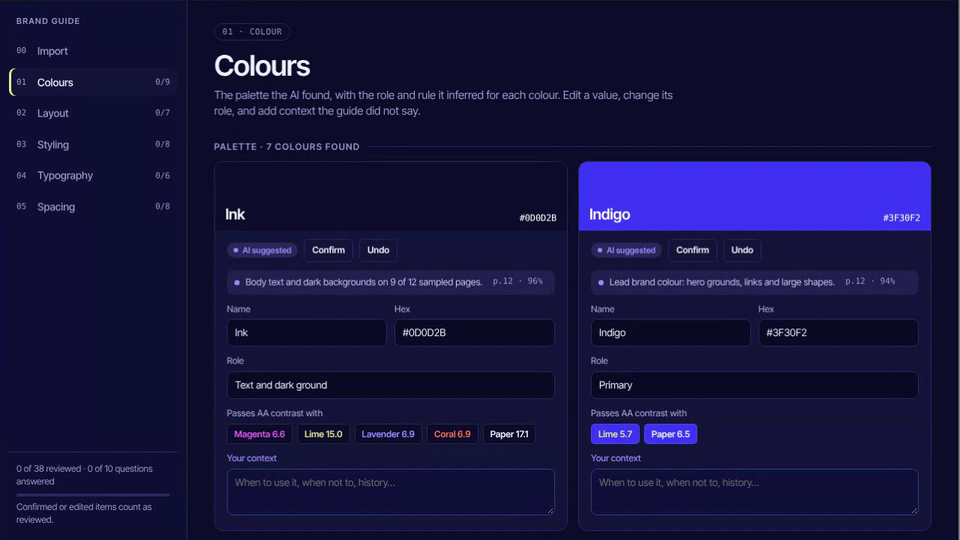
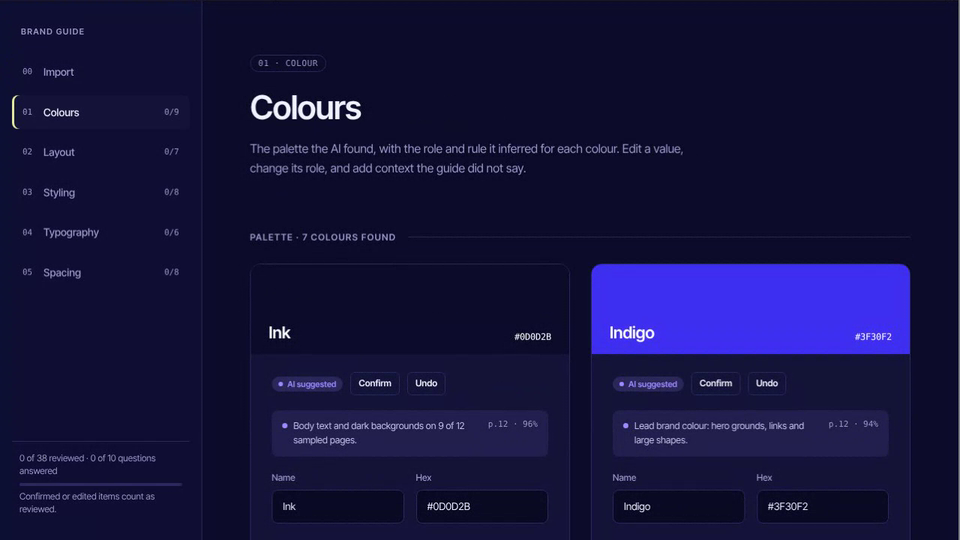
Brand Guidelines Settings: sample guide loaded by default, more spacing
Claude-Session: https://claude.ai/code/session_01AHeBe1Cc9Fqmkx8dE8ESge

diff --git a/brand-guidelines-settings/index.html b/brand-guidelines-settings/index.html
@@ -28,9 +28,9 @@ nav.back b{font-weight:500;color:#fff;overflow:hidden;text-overflow:ellipsis}
 
 .app{flex:1;min-height:0;display:flex}
 /* sidebar */
-.side{flex:none;width:250px;background:#101035;border-right:1px solid var(--line);display:flex;flex-direction:column;padding:18px 12px;gap:4px;overflow:auto}
-.side h2{font:600 11px var(--font);letter-spacing:.12em;text-transform:uppercase;color:var(--muted);padding:2px 10px 10px}
-.nv{display:flex;align-items:center;gap:10px;width:100%;text-align:left;background:none;border:0;border-radius:8px;padding:9px 10px;color:var(--muted);font-weight:500;font-size:14px}
+.side{flex:none;width:270px;background:#101035;border-right:1px solid var(--line);display:flex;flex-direction:column;padding:32px 16px;gap:8px;overflow:auto}
+.side h2{font:600 11px var(--font);letter-spacing:.12em;text-transform:uppercase;color:var(--muted);padding:2px 12px 16px}
+.nv{display:flex;align-items:center;gap:10px;width:100%;text-align:left;background:none;border:0;border-radius:8px;padding:13px 14px;color:var(--muted);font-weight:500;font-size:14px}
 .nv:hover{background:var(--navy);color:var(--text)}
 .nv.on{background:var(--navy);color:var(--text);box-shadow:inset 3px 0 0 var(--lime)}
 .nv i{font:500 11px var(--mono);font-style:normal;color:var(--muted);width:18px}
@@ -42,17 +42,17 @@ nav.back b{font-weight:500;color:#fff;overflow:hidden;text-overflow:ellipsis}
 
 /* main */
 .main{flex:1;min-width:0;overflow:auto;scroll-behavior:smooth}
-.pg{max-width:1080px;margin:0 auto;padding:30px 36px 80px;display:none}
+.pg{max-width:1120px;margin:0 auto;padding:72px 64px 140px;display:none}
 .pg.on{display:block;animation:in .35s ease both}
 @keyframes in{from{opacity:0;transform:translateY(8px)}}
 .tag{display:inline-block;font:500 11px var(--mono);letter-spacing:.06em;text-transform:uppercase;border:1px solid var(--line);border-radius:999px;padding:4px 10px;color:var(--muted)}
-.pg h1{font:600 38px/1.05 var(--font);letter-spacing:-.02em;margin:14px 0 8px}
-.lead{color:var(--muted);font-size:15px;max-width:640px}
-h3.sub{font:600 12px var(--font);letter-spacing:.1em;text-transform:uppercase;color:var(--muted);margin:30px 0 12px;display:flex;align-items:center;gap:10px}
+.pg h1{font:600 44px/1.05 var(--font);letter-spacing:-.02em;margin:24px 0 20px}
+.lead{color:var(--muted);font-size:16px;line-height:1.6;max-width:620px}
+h3.sub{font:600 12px var(--font);letter-spacing:.1em;text-transform:uppercase;color:var(--muted);margin:72px 0 28px;display:flex;align-items:center;gap:16px}
 h3.sub::after{content:"";flex:1;height:1px;background:var(--line)}
 
-.card{background:var(--navy);border:1px solid var(--line);border-radius:12px;padding:18px}
-.row{display:flex;gap:14px;flex-wrap:wrap}
+.card{background:var(--navy);border:1px solid var(--line);border-radius:14px;padding:32px}
+.row{display:flex;gap:16px;flex-wrap:wrap}
 .btn{background:var(--lime);color:var(--ink);border:0;border-radius:8px;padding:10px 14px;font-weight:600;font-size:13px;transition:transform .12s,background .2s}
 .btn:hover{background:#fff}.btn:active{transform:scale(.96)}
 .btn.ghost{background:transparent;color:var(--text);border:1px solid var(--line)}
@@ -60,44 +60,44 @@ h3.sub::after{content:"";flex:1;height:1px;background:var(--line)}
 .btn.sm{padding:6px 10px;font-size:12px;border-radius:6px}
 
 /* import */
-.drop{border:2px dashed var(--line);border-radius:12px;padding:26px;text-align:center;background:#101035;transition:.2s}
+.drop{border:2px dashed var(--line);border-radius:12px;padding:48px 40px;text-align:center;background:#101035;transition:.2s}
 .drop.over{border-color:var(--lime);background:var(--panel)}
 .drop b{display:block;font-size:16px;font-weight:600;margin-bottom:4px}
-.drop p{color:var(--muted);font-size:13px;margin-bottom:14px}
+.drop p{color:var(--muted);font-size:13px;margin-bottom:24px}
 .drop .row{justify-content:center}
-.url{display:flex;gap:8px;margin-top:12px}
+.url{display:flex;gap:10px;margin-top:28px}
 .url input{flex:1}
 .src{display:none;align-items:center;gap:14px}
 .src.on{display:flex}
 .file{width:42px;height:54px;border-radius:5px;background:var(--lime);color:var(--ink);display:grid;place-items:center;font:700 11px var(--mono);flex:none}
 .src .nm{font:600 14px var(--mono);word-break:break-all}
 .src small{color:var(--muted);font-size:12.5px}
-.steps{display:grid;gap:9px;margin-top:16px}
+.steps{display:grid;gap:14px;margin-top:28px}
 .steps div{display:flex;align-items:center;gap:10px;font-size:13px;color:var(--muted)}
 .steps b{width:18px;height:18px;border-radius:50%;border:2px solid var(--line);display:grid;place-items:center;font-size:10px;flex:none}
 .steps .done{color:var(--text)}.steps .done b{background:var(--lime);border-color:var(--lime);color:var(--ink)}
 .steps .cur{color:var(--text);font-weight:600}.steps .cur b{border-color:var(--coral);animation:pulse 1s infinite}
 @keyframes pulse{50%{opacity:.3}}
-.stats{display:grid;grid-template-columns:repeat(auto-fit,minmax(150px,1fr));gap:12px;margin-top:14px}
-.stat{background:var(--navy);border:1px solid var(--line);border-radius:12px;padding:14px 16px}
-.stat big{display:block;font:600 30px/1 var(--font);letter-spacing:-.02em;font-variant-numeric:tabular-nums}
+.stats{display:grid;grid-template-columns:repeat(auto-fit,minmax(170px,1fr));gap:20px}
+.stat{background:var(--navy);border:1px solid var(--line);border-radius:12px;padding:24px}
+.stat big{display:block;margin-bottom:10px;font:600 30px/1 var(--font);letter-spacing:-.02em;font-variant-numeric:tabular-nums}
 .stat span{font-size:12.5px;color:var(--muted)}
 .hint{font-size:12px;color:var(--muted)}
-pre.brief{background:#08081f;border:1px solid var(--line);border-radius:10px;padding:16px;font:12px/1.55 var(--mono);color:#C9C6F2;white-space:pre-wrap;max-height:340px;overflow:auto}
+pre.brief{background:#08081f;border:1px solid var(--line);border-radius:10px;padding:28px;font:12px/1.8 var(--mono);color:#C9C6F2;white-space:pre-wrap;max-height:340px;overflow:auto}
 
 /* fields */
-input[type=text],input[type=url],select,textarea,input[type=number]{width:100%;background:#0b0b26;border:1px solid var(--line);border-radius:8px;padding:8px 10px;font-size:13.5px;color:var(--text)}
-textarea{resize:vertical;min-height:62px;line-height:1.4}
+input[type=text],input[type=url],select,textarea,input[type=number]{width:100%;background:#0b0b26;border:1px solid var(--line);border-radius:8px;padding:12px 14px;font-size:13.5px;color:var(--text)}
+textarea{resize:vertical;min-height:84px;line-height:1.5}
 input:hover,select:hover,textarea:hover{border-color:#41418a}
 input:focus,select:focus,textarea:focus{border-color:var(--lime);outline:none}
-label.f{display:block;font-size:12px;font-weight:500;color:var(--muted);margin-bottom:5px}
+label.f{display:block;font-size:12px;font-weight:500;color:var(--muted);margin-bottom:8px}
 input[type=range]{accent-color:#E6EA9C;width:100%}
 .ctx{position:relative}
 .ctx label.f{color:var(--lav)}
 .ctx textarea{border-color:#3a3a80;background:#10103a}
 
 /* ai learned */
-.ai{display:flex;gap:8px;align-items:flex-start;font-size:12.5px;color:#C9C6F2;background:rgba(161,139,255,.1);border-radius:8px;padding:8px 10px;line-height:1.35}
+.ai{display:flex;gap:8px;align-items:flex-start;font-size:12.5px;color:#C9C6F2;background:rgba(161,139,255,.1);border-radius:8px;padding:12px 14px;line-height:1.5}
 .ai::before{content:"";flex:none;width:7px;height:7px;border-radius:50%;background:var(--lav);margin-top:5px}
 .ai em{font:500 11px var(--mono);font-style:normal;color:var(--muted);margin-left:6px;white-space:nowrap}
 .chip{display:inline-flex;align-items:center;gap:6px;font:600 11px var(--font);padding:3px 9px;border-radius:10px;background:color-mix(in srgb,var(--c) 17%,transparent);color:var(--c);white-space:nowrap}
@@ -105,25 +105,25 @@ input[type=range]{accent-color:#E6EA9C;width:100%}
 .empty-note{color:var(--muted);font-size:13px;padding:18px;border:1px dashed var(--line);border-radius:12px;text-align:center}
 body:not(.learned) .gated{display:none}
 body.learned .gate{display:none}
-.gate{margin-top:26px}
+.gate{margin-top:56px}
 
 /* colour cards */
-.cgrid{display:grid;grid-template-columns:repeat(auto-fill,minmax(330px,1fr));gap:14px}
-.cc{display:flex;flex-direction:column;gap:11px;padding:0;overflow:hidden}
-.cc .sw{height:92px;position:relative;display:flex;align-items:flex-end;justify-content:space-between;padding:10px 14px;font:600 20px var(--font);letter-spacing:-.01em;transition:background .2s}
+.cgrid{display:grid;grid-template-columns:repeat(auto-fill,minmax(340px,1fr));gap:28px}
+.cc{display:flex;flex-direction:column;gap:20px;padding:0;overflow:hidden}
+.cc .sw{height:120px;position:relative;display:flex;align-items:flex-end;justify-content:space-between;padding:16px 24px;font:600 22px var(--font);letter-spacing:-.01em;transition:background .2s}
 .cc .sw small{font:500 12px var(--mono)}
-.cc .bd{padding:0 16px 16px;display:flex;flex-direction:column;gap:11px}
-.cc .hd{display:flex;align-items:center;gap:8px;flex-wrap:wrap}
-.two{display:grid;grid-template-columns:1fr 1fr;gap:10px}
-.pairs{display:flex;gap:6px;flex-wrap:wrap}
+.cc .bd{padding:4px 28px 32px;display:flex;flex-direction:column;gap:20px}
+.cc .hd{display:flex;align-items:center;gap:10px;flex-wrap:wrap}
+.two{display:grid;grid-template-columns:1fr 1fr;gap:16px}
+.pairs{display:flex;gap:8px;flex-wrap:wrap}
 .pair{font:600 12px var(--font);padding:5px 9px;border-radius:5px;border:1px solid rgba(255,255,255,.12)}
-.bar{display:flex;height:46px;border-radius:8px;overflow:hidden;margin:6px 0}
+.bar{display:flex;height:56px;border-radius:8px;overflow:hidden;margin:0 0 16px}
 .bar i{display:block;height:100%;transition:flex .3s}
 
 /* parameter rows */
-.prm{display:grid;grid-template-columns:130px minmax(0,1fr) auto;gap:8px 12px;align-items:center;padding:12px 0;border-bottom:1px solid var(--line)}
-.prm .cx{grid-column:1/3}.prm .st{justify-self:end}.prm .val input[type=range]{min-width:90px;flex:1}
-@media (max-width:760px){.prm{grid-template-columns:minmax(0,1fr) auto}.prm .nm{grid-column:1/-1}.prm .cx{grid-column:1/-1}.prm .st{grid-column:1/-1;justify-self:start}}
+.prm{display:grid;grid-template-columns:150px minmax(0,1fr);gap:14px 24px;align-items:center;padding:28px 0;border-bottom:1px solid var(--line)}
+.prm>:nth-child(1){grid-column:1;grid-row:1}.prm>:nth-child(2){grid-column:2;grid-row:1}.prm .rd{grid-column:1;grid-row:2}.prm .cx{grid-column:2;grid-row:2}.prm .st{grid-column:1/-1;grid-row:3;justify-self:start}.prm .val input[type=range]{min-width:90px;flex:1}
+@media (max-width:760px){.prm{grid-template-columns:minmax(0,1fr)}.prm>*{grid-column:1!important;grid-row:auto!important}}
 .prm:last-child{border:0}
 .prm .nm{font-weight:600;font-size:13.5px}
 .prm .nm small{display:block;font-weight:400;color:var(--muted);font-size:11.5px}
@@ -132,37 +132,37 @@ body.learned .gate{display:none}
 .prm .val output{font:500 12px var(--mono);min-width:44px;text-align:right;color:var(--text)}
 .prm input[type=text].cx{font-size:12.5px;border-color:#3a3a80;background:#10103a}
 
-.split{margin-top:30px;display:grid;grid-template-columns:minmax(0,1.25fr) minmax(300px,.9fr);gap:18px;align-items:start}
+.split{margin-top:0;display:grid;grid-template-columns:minmax(0,1.25fr) minmax(300px,.9fr);gap:48px;align-items:start}
 .split .stick{position:sticky;top:0}
-@media (max-width:1100px){.split{grid-template-columns:1fr}.split .stick{position:static}}
+@media (max-width:1100px){.split{grid-template-columns:1fr;gap:40px}.split .stick{position:static}}
 .pv{background:#fff;color:#0D0D2B;border-radius:12px;overflow:hidden;position:relative}
 .pv.dark{background:var(--ink)}
 .pvh{display:flex;justify-content:space-between;font:500 11px var(--mono);color:var(--muted);padding:0 2px 8px}
 
 /* questions */
-.q{display:grid;gap:6px;padding:14px 0;border-bottom:1px solid var(--line)}
+.q{display:grid;gap:14px;padding:28px 0;border-bottom:1px solid var(--line)}
 .q:last-child{border:0}
 .q p{font-size:13.5px;font-weight:500}
 .q p::before{content:"AI asks";font:600 10px var(--mono);letter-spacing:.06em;text-transform:uppercase;background:var(--lav);color:var(--ink);padding:2px 6px;border-radius:4px;margin-right:8px;vertical-align:1px}
 
 /* type table */
-.ts{display:grid;gap:14px;margin-top:30px}
-.tcard{display:grid;grid-template-columns:minmax(0,1fr) minmax(0,1.2fr);gap:18px;align-items:start}
-.tcard .smp{background:#fff;color:#0D0D2B;border-radius:8px;padding:18px;overflow:hidden;min-height:100px;display:flex;align-items:center}
+.ts{display:grid;gap:28px;margin-top:56px}
+.tcard{display:grid;grid-template-columns:minmax(0,1fr) minmax(0,1.2fr);gap:40px;align-items:start}
+.tcard .smp{background:#fff;color:#0D0D2B;border-radius:8px;padding:28px;overflow:hidden;min-height:120px;display:flex;align-items:center}
 .tcard .smp span{display:block;overflow-wrap:anywhere}
-.tcard .ctl{display:grid;grid-template-columns:repeat(3,1fr);gap:8px}
+.tcard .ctl{display:grid;grid-template-columns:repeat(3,1fr);gap:20px 16px}
 .tcard .ctl .w2{grid-column:span 3}
 @media (max-width:820px){.tcard{grid-template-columns:1fr}}
 
 /* grid preview */
-.gp{position:relative;background:#101035;border-radius:10px;padding:14px 0;overflow:hidden}
+.gp{position:relative;background:#101035;border-radius:10px;padding:24px 0;overflow:hidden}
 .gp .fr{margin:0 auto;position:relative;background:rgba(255,255,255,.03);outline:1px dashed #4a4a90}
 .gp .cols{position:absolute;inset:0;display:grid}
 .gp .cols i{background:rgba(232,93,244,.22)}
 .gp .mk{position:absolute;font:600 10px var(--mono);color:var(--red);background:#0D0D2B;padding:0 3px;border-radius:2px}
-.sp{background:#fff;color:#0D0D2B;border-radius:12px;padding:22px;position:relative}
-.sp .gapbar{position:absolute;left:22px;right:22px;background:rgba(255,45,45,.18);border-top:1px solid var(--red);border-bottom:1px solid var(--red);color:var(--red);font:600 10px var(--mono);display:flex;align-items:center;justify-content:flex-end;padding-right:4px;pointer-events:none}
-.scalerow{display:flex;align-items:flex-end;gap:8px;flex-wrap:wrap;margin-top:10px}
+.sp{background:#fff;color:#0D0D2B;border-radius:12px;padding:32px;position:relative}
+.sp .gapbar{position:absolute;left:32px;right:32px;background:rgba(255,45,45,.18);border-top:1px solid var(--red);border-bottom:1px solid var(--red);color:var(--red);font:600 10px var(--mono);display:flex;align-items:center;justify-content:flex-end;padding-right:4px;pointer-events:none}
+.scalerow{display:flex;align-items:flex-end;gap:14px;flex-wrap:wrap;margin-top:24px}
 .scalerow div{text-align:center;font:500 10.5px var(--mono);color:var(--muted)}
 .scalerow i{display:block;background:var(--indigo);margin:0 auto 4px;border-radius:2px}
 .toast{position:fixed;bottom:20px;left:50%;transform:translate(-50%,20px);background:var(--lime);color:var(--ink);font-weight:600;font-size:13px;padding:10px 16px;border-radius:8px;opacity:0;pointer-events:none;transition:.25s;z-index:9}
@@ -172,8 +172,8 @@ body.learned .gate{display:none}
   body{overflow:auto}.app{flex-direction:column}
   .side{width:auto;flex-direction:row;overflow-x:auto;padding:8px 10px;gap:2px;border-right:0;border-bottom:1px solid var(--line)}
   .side h2,.sidefoot{display:none}.nv{width:auto;white-space:nowrap;padding:8px 10px}.nv .pc{display:none}
-  .main{overflow:visible}.pg{padding:22px 16px 60px}.pg h1{font-size:30px}
-  .cgrid{grid-template-columns:1fr}.two{grid-template-columns:1fr}
+  .main{overflow:visible}.pg h1{font-size:30px}
+  .cgrid{grid-template-columns:1fr}.two{grid-template-columns:1fr}.card{padding:22px}.cc{padding:0}.pg{padding:40px 20px 100px}h3.sub{margin-top:52px}.cc .bd{padding:4px 20px 24px}.drop{padding:32px 20px}
 }
 @media (prefers-reduced-motion:reduce){*{animation:none!important;transition:none!important}}
 </style>
@@ -207,15 +207,15 @@ body.learned .gate{display:none}
           <input type="file" id="file" hidden accept=".pdf,.png,.jpg,.jpeg,.webp,.svg,.css,.json,.txt,.md,.html">
           <form class="url" id="urlf"><input type="url" id="urlin" placeholder="…or paste a link to an online guide, e.g. https://brand.example.com" aria-label="Guide link"><button class="btn ghost" type="submit">Import link</button></form>
         </div>
-        <div class="src" id="src" style="margin-top:16px"><div class="file" id="srcExt">PDF</div><div><div class="nm" id="srcName"></div><small id="srcMeta"></small></div><button class="btn ghost sm" id="bClear" style="margin-left:auto">Remove</button></div>
+        <div class="src" id="src" style="margin-top:32px"><div class="file" id="srcExt">PDF</div><div><div class="nm" id="srcName"></div><small id="srcMeta"></small></div><button class="btn ghost sm" id="bClear" style="margin-left:auto">Remove</button></div>
         <div class="steps" id="steps" hidden></div>
       </div>
       <div class="gated">
         <h3 class="sub">What the AI learned</h3>
         <div class="stats" id="stats"></div>
         <h3 class="sub">Brief for the AI</h3>
-        <p class="hint" style="margin-bottom:10px">Everything you confirm and every note you write is combined here. Paste it into any prompt, or download the JSON.</p>
-        <div class="row" style="margin-bottom:10px"><button class="btn" id="bCopy">Copy brief</button><button class="btn ghost" id="bJson">Download JSON</button><button class="btn ghost" id="bReset">Reset to what the AI learned</button></div>
+        <p class="hint" style="margin-bottom:20px;line-height:1.6">Everything you confirm and every note you write is combined here. Paste it into any prompt, or download the JSON.</p>
+        <div class="row" style="margin-bottom:24px"><button class="btn" id="bCopy">Copy brief</button><button class="btn ghost" id="bJson">Download JSON</button><button class="btn ghost" id="bReset">Reset to what the AI learned</button></div>
         <pre class="brief" id="brief"></pre>
       </div>
       <p class="empty-note gate">Nothing imported yet. Choose a file, paste a link, or try the sample guide.</p>
@@ -462,7 +462,7 @@ function propRow(k, p, i) {
     <input type="text" class="cx" data-path="${base}.ctx" value="${esc(p.ctx)}" placeholder="Add context…" aria-label="Context for ${esc(p.name)}">
     <div class="st" style="display:flex;gap:6px;align-items:center">${chip(p)}<button class="btn ghost sm" data-confirm="${base}">Confirm</button></div></div>`;
 }
-const propsCard = (k, list, startAt = 0) => `<div class="card" style="padding:4px 18px">${list.map((p, i) => propRow(k, p, i + startAt)).join('')}</div>`;
+const propsCard = (k, list, startAt = 0) => `<div class="card" style="padding:4px 32px">${list.map((p, i) => propRow(k, p, i + startAt)).join('')}</div>`;
 
 /* ---------- COLOURS ---------- */
 function renderColours() {
@@ -470,7 +470,7 @@ function renderColours() {
   $('#colBody').innerHTML = `
    <h3 class="sub">Palette · ${c.items.length} colours found</h3>
    <div class="cgrid">${c.items.map((x, i) => colCard(x, i)).join('')}</div>
-   <div class="row" style="margin-top:12px"><button class="btn ghost sm" id="addCol">+ Add a colour</button></div>
+   <div class="row" style="margin-top:28px"><button class="btn ghost sm" id="addCol">+ Add a colour</button></div>
    <h3 class="sub">Proportions</h3><div class="bar" id="mixbar"></div><div class="hint" id="mixhint"></div>
    <h3 class="sub">Rules</h3>${propsCard('colours', c.props)}
    ${qBlock('colours')}`;
@@ -512,8 +512,8 @@ function paintColours() {
 /* ---------- LAYOUT ---------- */
 const P = (k, id) => D[k].props.find((p) => p.id === id).v;
 function renderLayout() {
-  $('#layBody').innerHTML = `<div class="split"><div><h3 class="sub" style="margin-top:0">Settings</h3>${propsCard('layout', D.layout.props)}</div>
-   <div class="stick"><h3 class="sub" style="margin-top:0">Preview</h3><div class="gp" id="gp"></div><p class="hint" style="margin-top:8px" id="gpnote"></p></div></div>${qBlock('layout')}`;
+  $('#layBody').innerHTML = `<div class="split"><div><h3 class="sub">Settings</h3>${propsCard('layout', D.layout.props)}</div>
+   <div class="stick"><h3 class="sub">Preview</h3><div class="gp" id="gp"></div><p class="hint" style="margin-top:20px;line-height:1.6" id="gpnote"></p></div></div>${qBlock('layout')}`;
   paintLayout();
 }
 function paintLayout() {
@@ -531,8 +531,8 @@ function paintLayout() {
 
 /* ---------- STYLING ---------- */
 function renderStyling() {
-  $('#styBody').innerHTML = `<div class="split"><div><h3 class="sub" style="margin-top:0">Settings</h3>${propsCard('styling', D.styling.props)}</div>
-   <div class="stick"><h3 class="sub" style="margin-top:0">Preview</h3><div class="pv dark" id="spv" style="padding:22px"></div></div></div>${qBlock('styling')}`;
+  $('#styBody').innerHTML = `<div class="split"><div><h3 class="sub">Settings</h3>${propsCard('styling', D.styling.props)}</div>
+   <div class="stick"><h3 class="sub">Preview</h3><div class="pv dark" id="spv" style="padding:22px"></div></div></div>${qBlock('styling')}`;
   paintStyling();
 }
 function paintStyling() {
@@ -548,7 +548,7 @@ function paintStyling() {
     <div style="font-size:13.5px;opacity:.8;margin-bottom:14px">Corners, border and shadow follow the settings.</div>
     <input type="text" placeholder="Input field" style="background:#fff;color:${ink};border:${bw}px solid ${bc};border-radius:${r}px;margin-bottom:12px">
     <div style="display:flex;gap:10px;flex-wrap:wrap"><button style="${btn};border-radius:${br}px;padding:10px 18px;font-weight:600;font-size:13px">Primary</button><span style="border:${bw}px solid ${bc};border-radius:${br}px;padding:9px 14px;font-size:13px">Tag</span></div></div>
-    <p style="font-size:12px;color:var(--muted);margin-top:12px">Imagery: ${esc(P('styling', 'img'))}<br>Icons: ${esc(P('styling', 'icon'))}</p>
+    <p style="font-size:12px;line-height:1.7;color:var(--muted);margin-top:24px">Imagery: ${esc(P('styling', 'img'))}<br>Icons: ${esc(P('styling', 'icon'))}</p>
     <svg width="120" height="28" viewBox="0 0 120 28" style="margin-top:8px" fill="none" stroke="${lime}" stroke-width="1.5" stroke-linecap="round" stroke-linejoin="round"><rect x="2" y="4" width="22" height="16" rx="2"/><path d="M3 5l10 8 10-8"/><circle cx="52" cy="12" r="9"/><path d="M52 7v5l3 2"/><path d="M82 20l8-14 8 14z"/></svg>`;
 }
 
@@ -561,7 +561,7 @@ function typeCard(s, i) {
   const b = `type.items.${i}`;
   const sel = (key, opts) => `<select data-path="${b}.${key}">${opts.map((o) => `<option${String(o) === String(s[key]) ? ' selected' : ''}>${o}</option>`).join('')}</select>`;
   return `<div class="card tcard" data-base="${b}"><div><div class="hd st" style="display:flex;gap:8px;align-items:center;margin-bottom:10px"><b style="font-size:16px;font-weight:600">${esc(s.name)}</b>${chip(s)}<button class="btn ghost sm" data-confirm="${b}">Confirm</button><button class="btn ghost sm" data-undo="${b}">Undo</button></div>
-    <div class="smp"><span data-smp>${esc(s.smp)}</span></div><div class="ai" style="margin-top:10px">${esc(s.ai)}<em>${s.src} · ${s.conf}%</em></div></div>
+    <div class="smp"><span data-smp>${esc(s.smp)}</span></div><div class="ai" style="margin-top:20px">${esc(s.ai)}<em>${s.src} · ${s.conf}%</em></div></div>
    <div><div class="ctl">
     <div><label class="f">Font</label>${sel('font', Object.keys(FONTS))}</div><div><label class="f">Weight</label>${sel('w', [300, 400, 500, 600, 700])}</div><div><label class="f">Case</label>${sel('caps', ['None', 'Sentence', 'Title', 'Upper'])}</div>
     <div><label class="f">Size px</label><input type="number" data-path="${b}.size" data-num min="8" max="160" value="${s.size}"></div><div><label class="f">Leading</label><input type="number" data-path="${b}.lh" data-num step=".05" min=".8" max="2.5" value="${s.lh}"></div><div><label class="f">Tracking</label><input type="number" data-path="${b}.tr" data-num step="1" min="-10" max="40" value="${s.tr}" title="thousandths of an em"></div>
@@ -580,12 +580,12 @@ function paintType() {
 /* ---------- SPACING ---------- */
 function renderSpacing() {
   const sc = D.spacing;
-  $('#spaBody').innerHTML = `<div class="split"><div><h3 class="sub" style="margin-top:0">Scale</h3>
+  $('#spaBody').innerHTML = `<div class="split"><div><h3 class="sub">Scale</h3>
     <div class="card"><label class="f" for="scale">Spacing scale in px, comma separated</label><input type="text" id="scale" data-path="spacing.scale" value="${esc(sc.scale)}"><div class="scalerow" id="scalerow"></div>
-     <div class="row" style="margin-top:12px;align-items:center" id="scst"><span class="chip" style="--c:var(--lav)">AI suggested</span><button class="btn ghost sm" id="scConfirm">Confirm</button><span class="hint">AI read: ${esc(sc.scaleAi)}</span></div>
-     <div class="ctx" style="margin-top:12px"><label class="f">Your context</label><textarea data-path="spacing.scaleCtx" rows="2" placeholder="Which steps are allowed where, off-scale exceptions…">${esc(sc.scaleCtx)}</textarea></div></div>
+     <div class="row" style="margin-top:24px;align-items:center" id="scst"><span class="chip" style="--c:var(--lav)">AI suggested</span><button class="btn ghost sm" id="scConfirm">Confirm</button><span class="hint">AI read: ${esc(sc.scaleAi)}</span></div>
+     <div class="ctx" style="margin-top:24px"><label class="f">Your context</label><textarea data-path="spacing.scaleCtx" rows="2" placeholder="Which steps are allowed where, off-scale exceptions…">${esc(sc.scaleCtx)}</textarea></div></div>
     <h3 class="sub">Gaps between elements</h3>${propsCard('spacing', sc.props)}</div>
-   <div class="stick"><h3 class="sub" style="margin-top:0">Preview</h3><div class="sp" id="spp"></div></div></div>${qBlock('spacing')}`;
+   <div class="stick"><h3 class="sub">Preview</h3><div class="sp" id="spp"></div></div></div>${qBlock('spacing')}`;
   $('#scConfirm').onclick = () => { sc.scaleSt = 'ok'; paintSpacing(); progress(); save(); };
   paintSpacing();
 }
@@ -693,7 +693,11 @@ window.addEventListener('resize', () => { if (D) { paintLayout(); paintSpacing()
 if (load()) {
   document.body.classList.add('learned'); $('#src').classList.add('on'); $('#srcExt').textContent = SRC.ext; $('#srcName').textContent = SRC.name; $('#srcMeta').textContent = SRC.meta + (SRC.note ? ' · ' + SRC.note : '');
   renderAll();
-} else progress();
+} else {
+  D = SAMPLE(); SRC = { name: 'Lob Brand Guide v4.pdf', ext: 'PDF', meta: '38 pages · sample guide', real: false };
+  document.body.classList.add('learned'); $('#src').classList.add('on'); $('#srcExt').textContent = SRC.ext; $('#srcName').textContent = SRC.name; $('#srcMeta').textContent = SRC.meta;
+  renderAll();
+}
 const h = /go=(\w+)/.exec(location.hash); if (h && SECS.concat('import').includes(h[1])) go(h[1]);
 window.__bg = { go, sample, ready: () => !!D && !busy };
 })();
